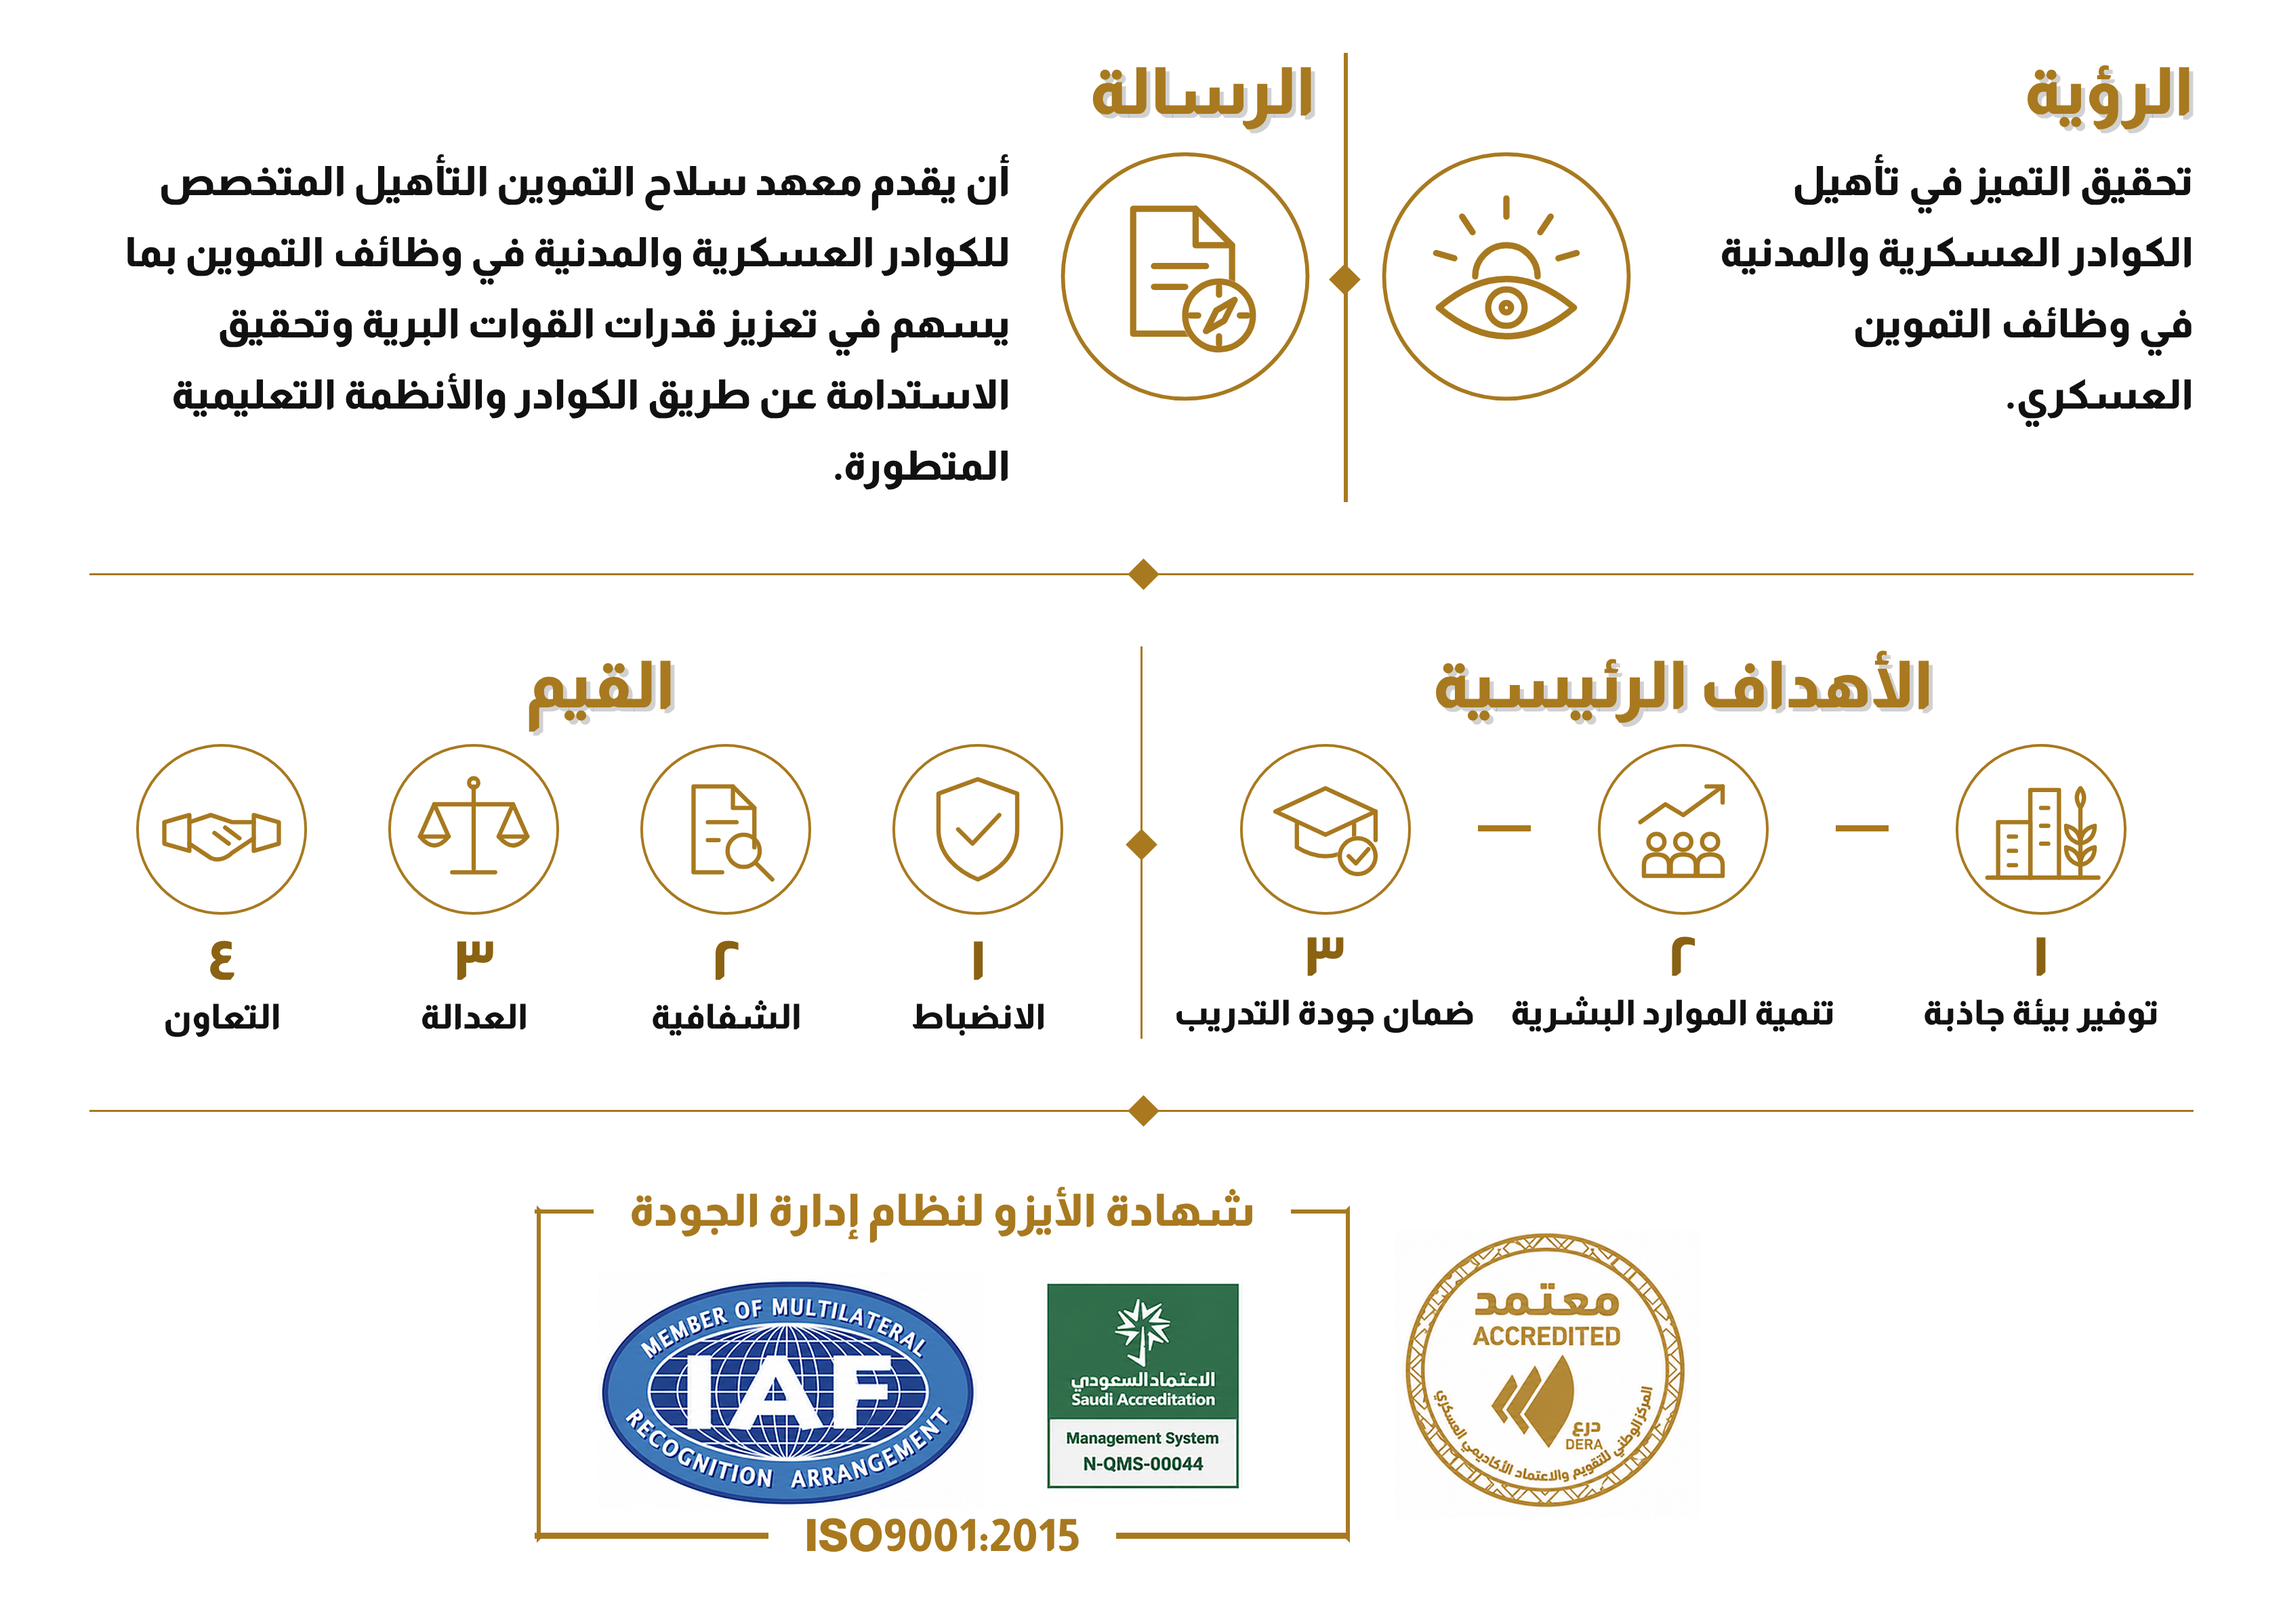
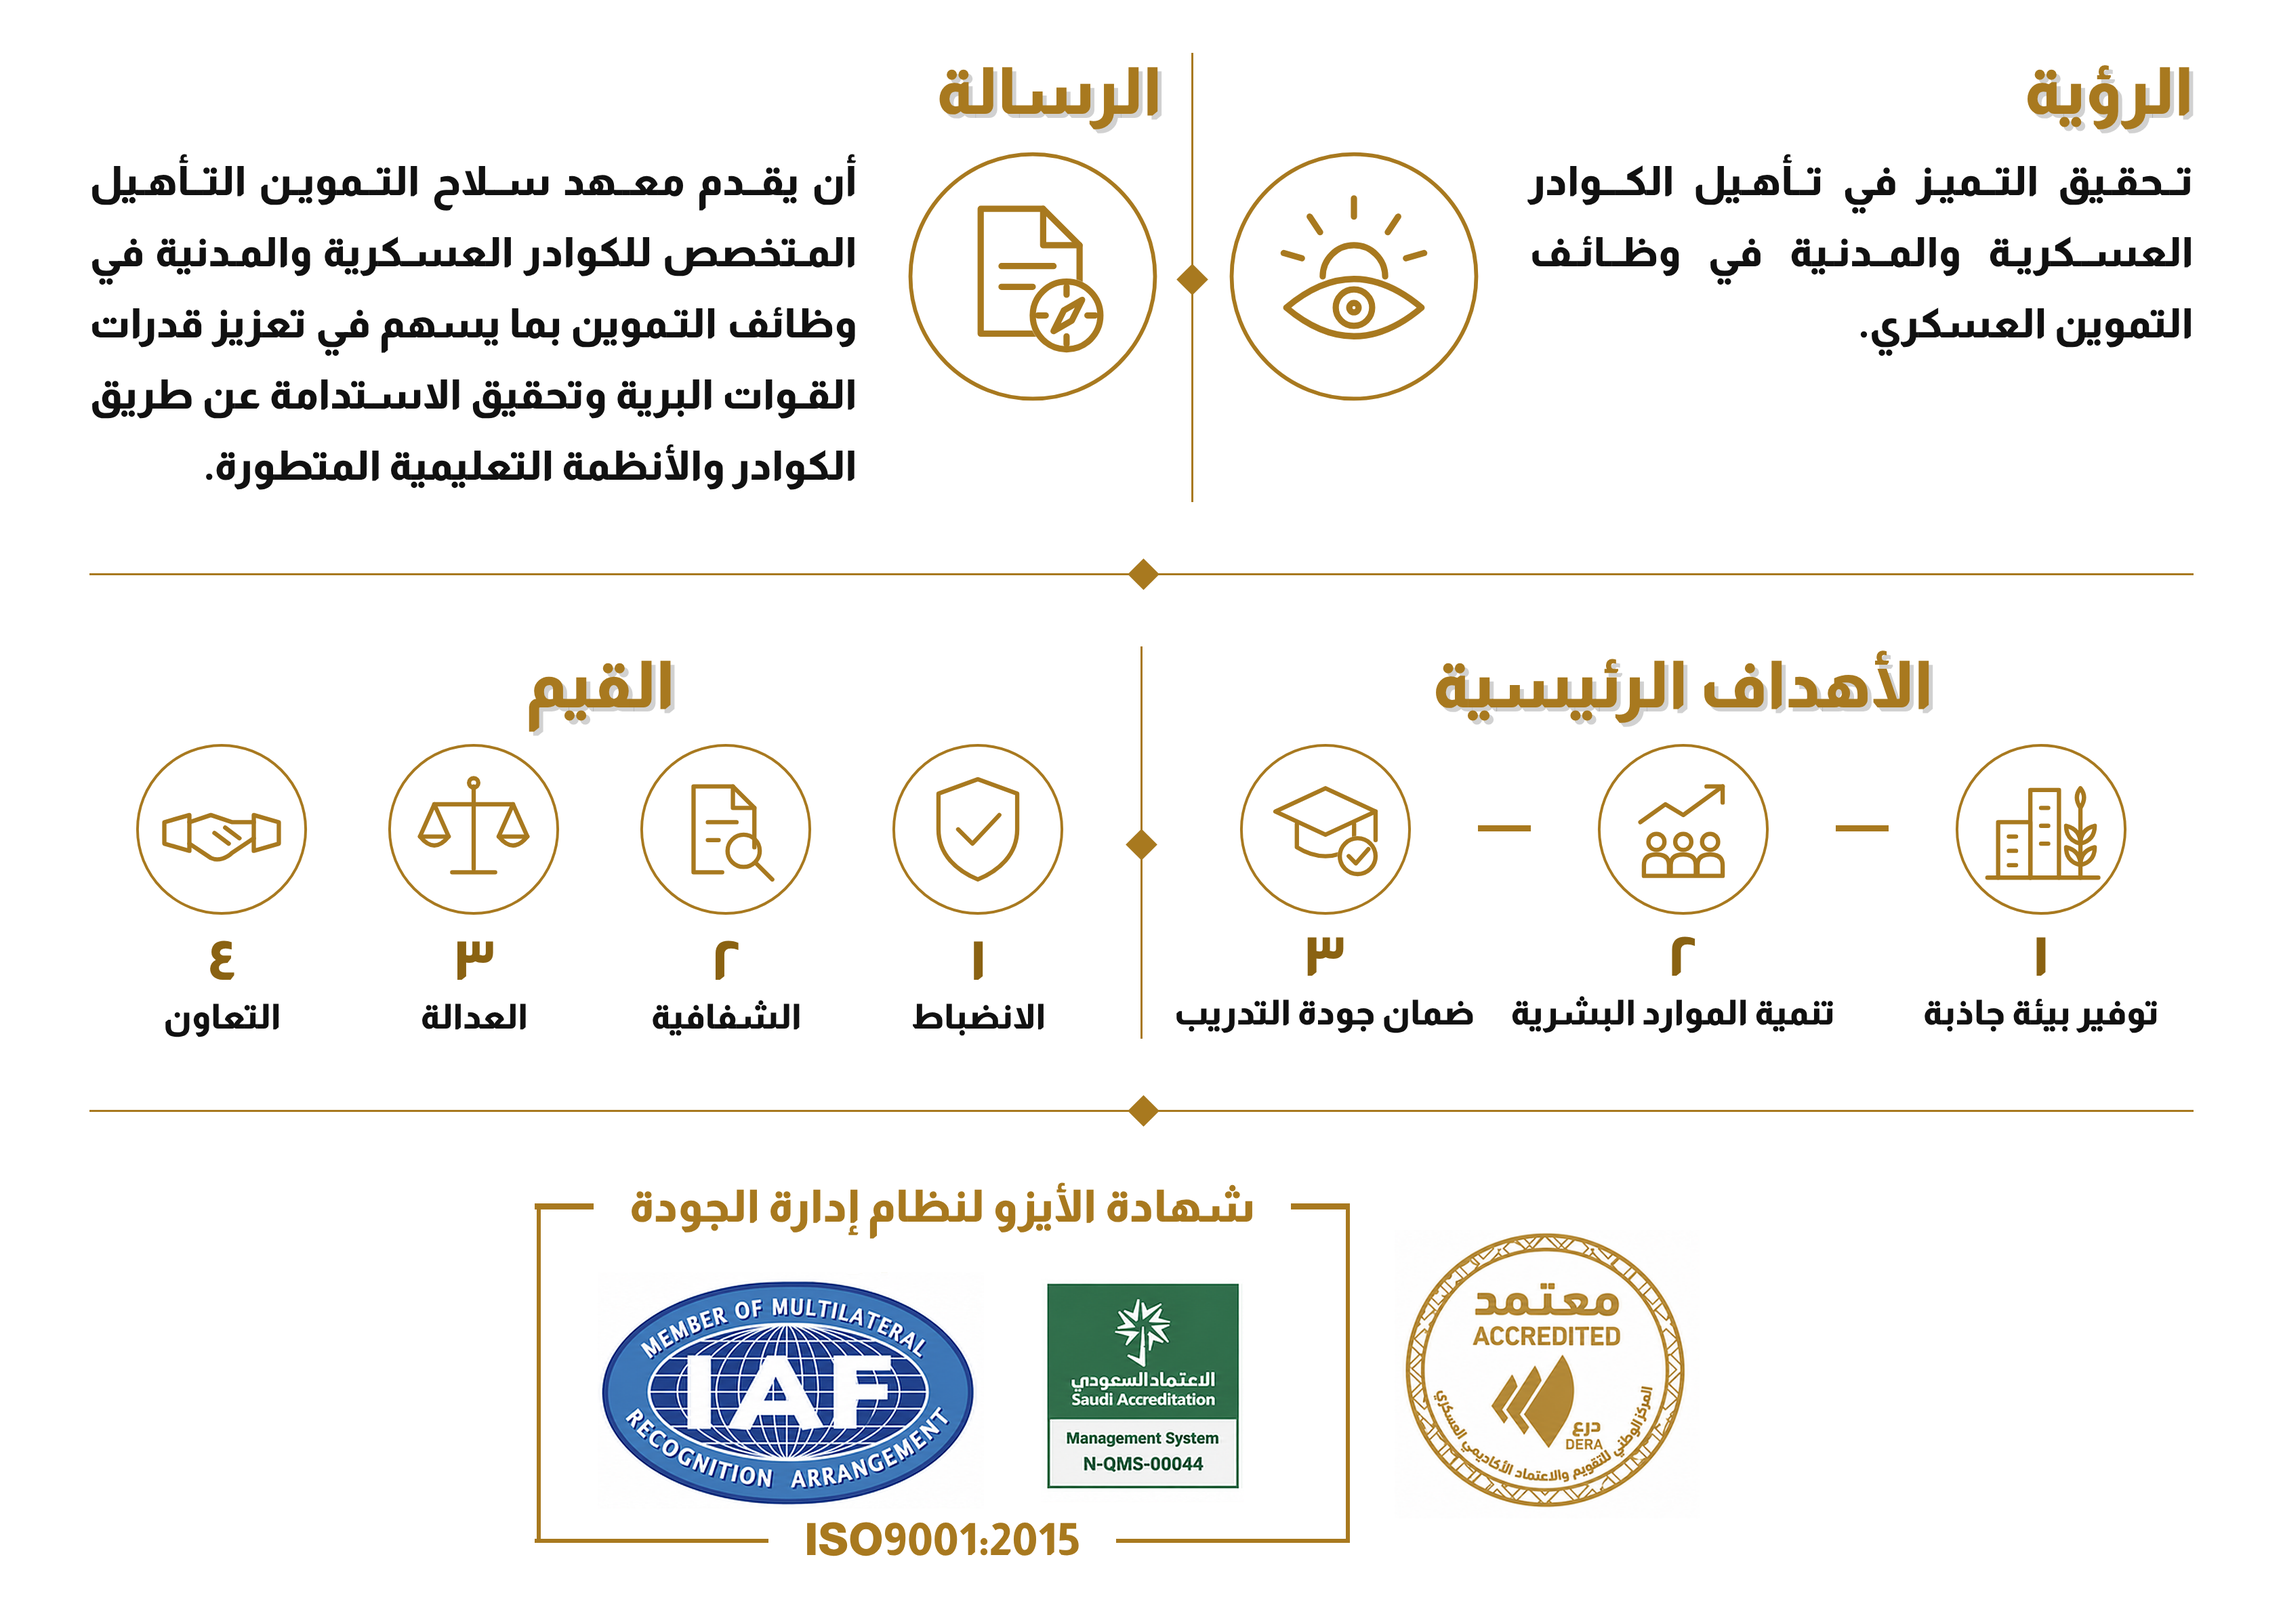
Connect certification box corners; justify vision/mission with medium kashida
Claude-Session: https://claude.ai/code/session_01HHtdcPQB4WrWFBfNpP3BhG

Changed region(s): [[0.0312, 0.0311, 0.9662, 0.3107], [0.2493, 0.932, 0.5922, 0.9631], [0.2805, 0.7456, 0.5922, 0.7767]]

diff --git a/infographic/index.html b/infographic/index.html
@@ -13,7 +13,7 @@
   h2{color:var(--gold);text-shadow:2px 2px 0 rgba(0,0,0,.18);line-height:1.2;font-size:32px;margin-bottom:8px}
   .cols{display:flex;align-items:flex-start}
   .cols>section{flex:1;min-width:0}
-  #vision{flex:.8!important}#mission{flex:1.2!important}
+  #vision{flex:.95!important}#mission{flex:1.05!important}
   .hdiv{height:14px;position:relative}
   .hdiv::before{content:"";position:absolute;left:0;right:0;top:6px;height:1.5px;background:var(--gold)}
   .hdiv::after{content:"";position:absolute;left:50%;top:1px;width:11px;height:11px;margin-left:-5px;background:var(--gold);transform:rotate(45deg)}
@@ -42,13 +42,13 @@
   #cert{display:flex;align-items:center;gap:22px;height:188px;width:572px;margin:0 auto;position:relative;left:-12px}
   #cert img{mix-blend-mode:multiply;height:auto}
   .cert-box{flex:1;height:166px;border:2.5px solid var(--gold);border-top-color:transparent;border-bottom-color:transparent;position:relative;display:flex;flex-direction:column;align-items:center;justify-content:center;padding:16px 16px 0}
-  .cert-box h3{position:absolute;top:-14.75px;left:-2.5px;right:-2.5px;display:flex;align-items:center;gap:14px;padding:0;color:var(--gold);font-size:22px;line-height:32px;text-align:center}
+  .cert-box h3{position:absolute;top:-17.25px;left:-2.5px;right:-2.5px;display:flex;align-items:center;gap:14px;padding:0;color:var(--gold);font-size:22px;line-height:32px;text-align:center}
   .cert-box h3::before,.cert-box h3::after{content:"";flex:1;height:2.5px;background:var(--gold)}
   .cert-box h3 span{padding:0 4px;white-space:nowrap}
   .logos-wrap{align-self:flex-start;margin-right:33.5px;display:flex;flex-direction:column;align-items:center}
   .logos{display:flex;align-items:center;gap:28px}
   .logos img:nth-child(1){width:100px}.logos img:nth-child(2){width:190px}
-  .iso{position:absolute;bottom:-14.75px;left:-2.5px;right:-2.5px;display:flex;align-items:center;gap:14px;color:var(--gold);font-size:22px;line-height:32px;direction:ltr;text-align:center}
+  .iso{position:absolute;bottom:-17.25px;left:-2.5px;right:-2.5px;display:flex;align-items:center;gap:14px;color:var(--gold);font-size:22px;line-height:32px;direction:ltr;text-align:center}
   .iso::before,.iso::after{content:"";flex:1;height:2.5px;background:var(--gold)}
   .iso span{padding:0 4px;white-space:nowrap}
   .seal{width:150px;flex:none}
@@ -111,5 +111,68 @@
     </div>
   </section>
 </div>
+<script>
+(function () {
+  var DUAL = 'بتثجحخسشصضطظعغفقكلمنهيئ';
+  var MAX_PER_WORD = 3, SHARE = 0.8;   // medium kashida: up to 3 tatweel per word, ~80% of the slack
+  function slots(w) {
+    var c = [];
+    for (var i = 0; i < w.length - 1; i++) {
+      var a = w[i], b = w[i + 1];
+      if (DUAL.indexOf(a) < 0 || !/[\u0621-\u064A]/.test(b)) continue;
+      if (a === '\u0644' && '\u0627\u0623\u0625\u0622'.indexOf(b) >= 0) continue;
+      c.push(i);
+    }
+    var pick = [];
+    [0.4, 0.75, 0.15].forEach(function (f) {
+      var best = -1, bd = 1e9;
+      c.forEach(function (i) { var d = Math.abs(i - (w.length - 1) * f); if (d < bd && pick.every(function (p) { return Math.abs(p - i) > 1; })) { bd = d; best = i; } });
+      if (best >= 0 && pick.length < 2) pick.push(best);
+    });
+    return pick.sort(function (x, y) { return x - y; });
+  }
+  function render(s) {
+    var out = '', last = 0;
+    s.slots.forEach(function (p, k) { out += s.base.slice(last, p + 1) + '\u0640'.repeat(s.n[k]); last = p + 1; });
+    return out + s.base.slice(last);
+  }
+  function justify(p) {
+    var words = p.textContent.trim().replace(/\s+/g, ' ').split(' ');
+    var st = words.map(function (w) { var sl = w.length >= 3 ? slots(w) : []; return { base: w, slots: sl, n: sl.map(function () { return 0; }), total: 0 }; });
+    p.innerHTML = words.map(function (w) { return '<span>' + w + '</span>'; }).join(' ');
+    p.style.textAlign = 'start';
+    var spans = [].slice.call(p.children);
+    var probe = document.createElement('span'); probe.textContent = '\u0640'.repeat(10); p.appendChild(probe);
+    var tw = probe.getBoundingClientRect().width / 10; p.removeChild(probe);
+    var box = p.getBoundingClientRect(), lines = [], lastTop = null;
+    spans.forEach(function (sp, i) {
+      var t = Math.round(sp.getBoundingClientRect().top);
+      if (lastTop === null || Math.abs(t - lastTop) > 4) { lines.push([]); lastTop = t; }
+      lines[lines.length - 1].push(i);
+    });
+    lines.slice(0, -1).forEach(function (idx) {
+      var left = Math.min.apply(null, idx.map(function (i) { return spans[i].getBoundingClientRect().left; }));
+      var slack = box.width - (box.right - left);
+      var budget = Math.floor(slack * SHARE / tw);
+      var order = idx.filter(function (i) { return st[i].slots.length; }).sort(function (a, b) { return words[b].length - words[a].length; });
+      var progress = true;
+      while (budget > 0 && progress) {
+        progress = false;
+        for (var k = 0; k < order.length && budget > 0; k++) {
+          var s = st[order[k]];
+          if (s.total >= MAX_PER_WORD) continue;
+          s.n[s.total % s.slots.length]++; s.total++; budget--; progress = true;
+        }
+      }
+    });
+    spans.forEach(function (sp, i) { sp.textContent = render(st[i]); });
+    p.style.textAlign = 'justify';
+  }
+  (document.fonts ? document.fonts.ready : Promise.resolve()).then(function () {
+    [].forEach.call(document.querySelectorAll('#vision p, #mission p'), justify);
+    window.__ready = true;
+  });
+})();
+</script>
 </body>
 </html>

diff --git a/infographic/render.js b/infographic/render.js
@@ -10,6 +10,7 @@ const { chromium } = require('playwright');
     await p.waitForFunction(() => [...document.images].every(i => i.complete));
   }
   await p.evaluate(() => document.fonts.ready);
+  await p.waitForFunction(() => window.__ready === true);
   await p.screenshot({ path: process.argv[2] || 'out.png', omitBackground: transparent });
   await b.close();
 })();
